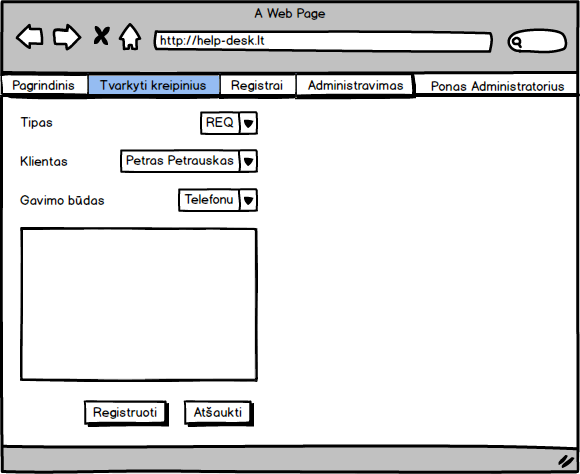
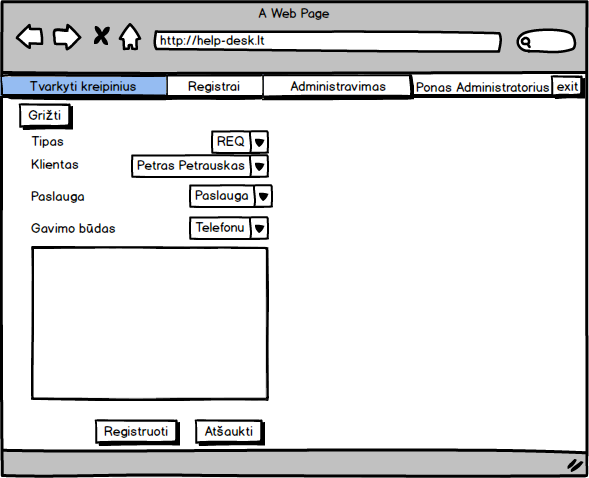
sutvarkyti maketai ir images

diff --git a/docs/zmogaus-kompiuterio-saveika/maketo-panaudojamumo-vertinimas/ataskaita.tex b/docs/zmogaus-kompiuterio-saveika/maketo-panaudojamumo-vertinimas/ataskaita.tex
@@ -31,17 +31,17 @@
 		Nr. & Problema & Sprendimas\\ [0.5ex] % inserts table 
 		%heading 
 		\hline % inserts single horizontal line 
-		1 & Administratorius>Registrai, mygtukas "Importuoti" per arti kitų mygtukų. & Jį reikėtų perkelti į dešinę pusę.\\
-		2 & Kortelės "Pagrindinis" turinys yra be reikalo pateikiamas atidarius puslapį. & Šios kortelės turinys turėtų būti pateikiamas paspaudus ant vartotojo vardo dešiniajame kampe.\\
-		3 & Administratorius neturi galimybės peržiūrėti priskirtų kreipinių. & Suteikti galimybę pasirinkti tarp priskirtų ir nepriskirtų kreipinių rodymo.\\
-		4 & Nėra būdo grįžti iš kreipinio priskirimo lango bei struktūros importavimo lango. & Kairiajame kampe pridėti mygtuką "Grįžti".\\
-		5 & Kreipinių sąrašuose yra neįvardintos paslaugos & Pridėti stulpelį su paslaugos pavadinimu.\\
-		6 & Administratoriui kuriant kreipinį nėra galimybės nurodyti paslaugą, kuriai skirtas kreipinys. & Reikia pridėti išskleidžiamą paslaugų sąrašą.\\
-		7 & Nėra galymybės greitai rasti visus neišspręstus kreipinius & Įdiegti sistemoje rikiavimą.\\
-		8 & Nereikalingas žodis "kreipiniai" - jis akivaizdus. & Pašalinti žodį "kreipiniai".\\
-		9 & Klientas, mygtukas "Naujas kreipinys" yra netinkamoje vietoje. & Jį reikėtų perkelti į dešinę pusę.\\
-		10 & Statistikos peržiūroje trūksta metų pasirinkimo galymybės. & Reikia pridėti išskleidžiamą metų pasirinkimo sąrašą.\\
-		11 & Netikslinga laikyti sistemos duomenų ištrynimo pasirinkimą duomenų importavimo lange. & Duomenų ištrynimo mygtuką sukurti sistemos administravimo lange.\\
+		1 & Administratorius>Registrai, mygtukas "Importuoti" per arti kitų mygtukų. & Jį reikėtų perkelti į dešinę pusę.\\ %%+
+		2 & Kortelės "Pagrindinis" turinys yra be reikalo pateikiamas atidarius puslapį. & Šios kortelės turinys turėtų būti pateikiamas paspaudus ant vartotojo vardo dešiniajame kampe.\\%%+
+		3 & Administratorius neturi galimybės peržiūrėti priskirtų kreipinių. & Suteikti galimybę pasirinkti tarp priskirtų ir nepriskirtų kreipinių rodymo.\\ %%+
+		4 & Nėra būdo grįžti iš kreipinio priskirimo lango bei struktūros importavimo lango. & Kairiajame kampe pridėti mygtuką "Grįžti".\\ %%+
+		5 & Kreipinių sąrašuose yra neįvardintos paslaugos & Pridėti stulpelį su paslaugos pavadinimu.\\%%+
+		6 & Administratoriui kuriant kreipinį nėra galimybės nurodyti paslaugą, kuriai skirtas kreipinys. & Reikia pridėti išskleidžiamą paslaugų sąrašą.\\%%+
+		7 & Inžinierius, nėra galymybės greitai rasti visus neišspręstus kreipinius & Įdiegti sistemoje rikiavimą.\\ %%+
+		8 & Klientas, nereikalingas žodis "kreipiniai" - jis akivaizdus. & Pašalinti žodį "kreipiniai".\\%%?
+		9 & Klientas, mygtukas "Naujas kreipinys" yra netinkamoje vietoje. & Jį reikėtų perkelti į dešinę pusę.\\%%?
+		10 & Statistikos peržiūroje trūksta metų pasirinkimo galymybės. & Reikia pridėti išskleidžiamą metų pasirinkimo sąrašą.\\ %%+
+		11 & Netikslinga laikyti sistemos duomenų ištrynimo pasirinkimą duomenų importavimo lange. & Duomenų ištrynimo mygtuką sukurti sistemos administravimo lange.\\%%+
 		\hline %inserts single line 
 		\end{tabular} 
 		\label{table:nonlin} % is used to refer this table in the text 
@@ -134,17 +134,17 @@
 	Nr. & Problema & Rado & Principas & Prioritetas\\ [0.5ex] % inserts table 
 	%heading 
 	\hline % inserts single horizontal line 
-	1 & Administratorius>Registrai, mygtukas "Importuoti" per arti kitų mygtukų. & U, K & Klaidų vengimas & Vidutinis\\
-	2 & Kortelės "Pagrindinis" turinys yra be reikalo pateikiamas atidarius puslapį. & U, K & Naudojimo lankstumas ir efektyvumas & Vidutinis\\
-	3 & Administratorius neturi galimybės peržiūrėti priskirtų kreipinių. & U, K & Sistemos atitikimas realiai situacijai & Aukštas\\
-	4 & Nėra būdo grįžti iš kreipinio priskirimo lango bei struktūros importavimo lango & U, K & Laisvas vartotojo valdymo dialogas & Aukštas\\
-	5 & Kreipinių sąrašuose yra neįvardintos paslaugos & U, K & Sistemos atitikimas realiai situacijai & Vidutinis\\
-	6 & Administratoriui kuriant kreipinį nėra galimybės nurodyti paslaugą, kuriai skirtas kreipinys. & U, K & Sistemos atitikimas realiai situacijai & Vidutinis\\
-	7 & Nėra galymybės greitai rasti visus neišspręstus kreipinius & U, K & Sistemos neatitikimas realiai situacijai & Žemas\\
-	8 & Nereikalingas žodis "kreipiniai" - jis akivaizdus. & U, K & Estetiškas dizainas & Žemas\\
-	9 & Klientas, mygtukas "Naujas kreipinys" yra netinkamoje vietoje. & U, K & Darnus dialogas & Žemas\\
-	10 & Statistikos peržiūroje trūksta metų pasirinkimo galymybės. & U, K & Sistemos atitikimas realiai situacijai & Vidutinis\\
-	11 & Netikslinga laikyti sistemos duomenų ištrynimo pasirinkimą duomenų importavimo lange. & U, K & Sistemos atitikimas realiai situacijai & Žemas\\
+	1 & Administratorius>Registrai, mygtukas "Importuoti" per arti kitų mygtukų. & U, K & Klaidų vengimas & Vidutinis\\%%+
+	2 & Kortelės "Pagrindinis" turinys yra be reikalo pateikiamas atidarius puslapį. & U, K & Naudojimo lankstumas ir efektyvumas & Vidutinis\\%%+
+	3 & Administratorius neturi galimybės peržiūrėti priskirtų kreipinių. & U, K & Sistemos atitikimas realiai situacijai & Aukštas\\%%+
+	4 & Nėra būdo grįžti iš kreipinio priskirimo lango bei struktūros importavimo lango & U, K & Laisvas vartotojo valdymo dialogas & Aukštas\\%%+
+	5 & Kreipinių sąrašuose yra neįvardintos paslaugos & U, K & Sistemos atitikimas realiai situacijai & Vidutinis\\%%+
+	6 & Administratoriui kuriant kreipinį nėra galimybės nurodyti paslaugą, kuriai skirtas kreipinys. & U, K & Sistemos atitikimas realiai situacijai & Vidutinis\\%%+
+	7 & Nėra galymybės greitai rasti visus neišspręstus kreipinius & U, K & Sistemos neatitikimas realiai situacijai & Žemas\\%%+
+	8 & Nereikalingas žodis "kreipiniai" - jis akivaizdus. & U, K & Estetiškas dizainas & Žemas\\%%?
+	9 & Klientas, mygtukas "Naujas kreipinys" yra netinkamoje vietoje. & U, K & Darnus dialogas & Žemas\\%%?
+	10 & Statistikos peržiūroje trūksta metų pasirinkimo galymybės. & U, K & Sistemos atitikimas realiai situacijai & Vidutinis\\%%+
+	11 & Netikslinga laikyti sistemos duomenų ištrynimo pasirinkimą duomenų importavimo lange. & U, K & Sistemos atitikimas realiai situacijai & Žemas\\%%+
 	\hline %inserts single line 
 	\end{tabular} 
 	\label{table:nonlin} % is used to refer this table in the text 
